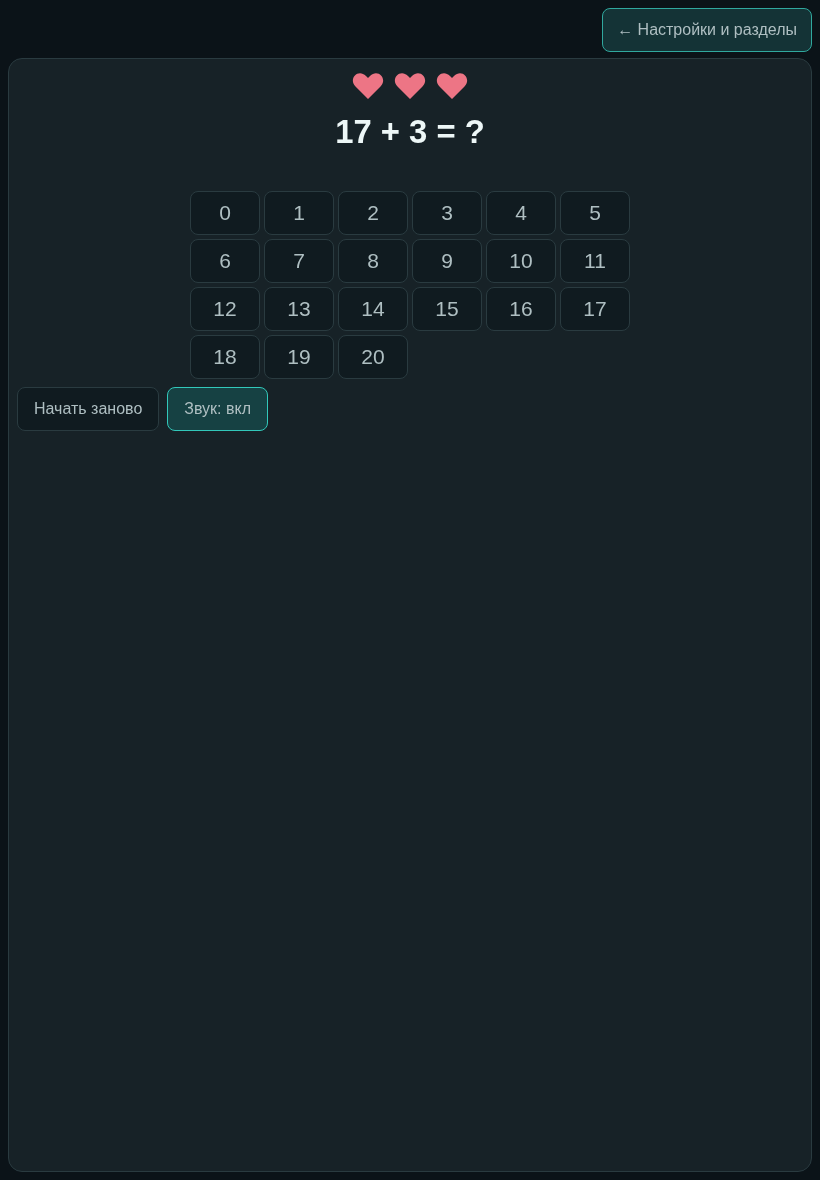
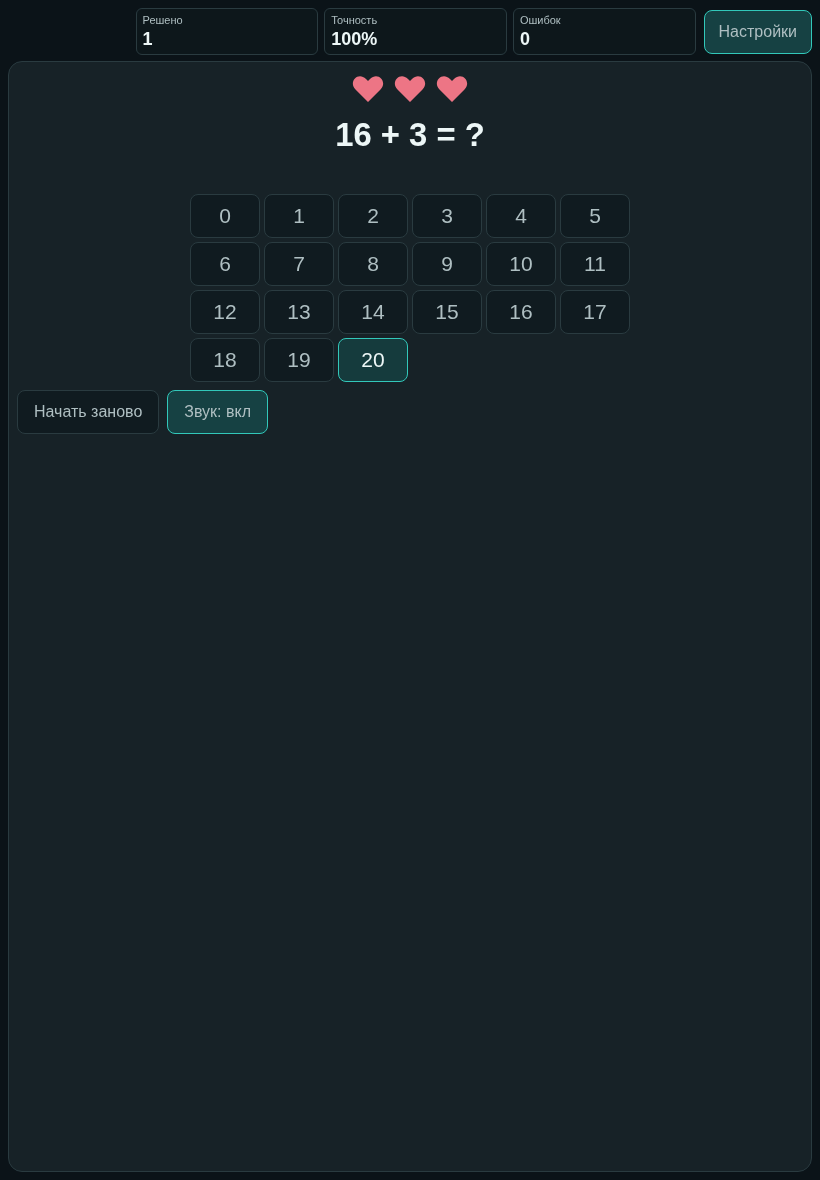
Keep live statistics visible alongside focused exercise controls

diff --git a/src/core/practice-view.ts b/src/core/practice-view.ts
@@ -21,6 +21,16 @@ export function attachPracticeView(root:HTMLElement):()=>void {
   toggle.setAttribute('aria-pressed','false');
   const bar=el('div',{class:'practice-bar'},[toggle]);
   shell.insertBefore(bar,stage);
+  // Keep the stream's existing counters live; move the node, never clone data.
+  const liveStats=shell.querySelector<HTMLElement>(':scope > .ml-stats');
+  const statsAnchor=liveStats?document.createComment('practice-live-stats'):null;
+  if(liveStats&&statsAnchor)liveStats.before(statsAnchor);
+  const restoreStats=()=>{
+    if(liveStats&&statsAnchor?.parentNode){
+      statsAnchor.parentNode.insertBefore(liveStats,statsAnchor.nextSibling);
+      liveStats.classList.remove('practice-live-stats');
+    }
+  };
 
   function restoreAttributes(){
     for(const [name,value] of attributes){
@@ -37,7 +47,7 @@ export function attachPracticeView(root:HTMLElement):()=>void {
     root.style.top=`${viewport?.offsetTop??0}px`;
     const width=root.clientWidth;
     const wide=width>=700||width>height*1.25;
-    const reserve=wide?(stage.querySelector('.exercise-seg')?140:100):245;
+    const reserve=wide?(stage.querySelector('.exercise-seg')?140:100):(stage.querySelector('.side .metrics')?336:245);
     const boardSize=Math.max(160,Math.floor(Math.min(wide?width*.57-24:width-24,height-reserve)));
     root.style.setProperty('--practice-board',`${boardSize}px`);
     // Board reads this size using its normal fitting and coordinate machinery.
@@ -51,7 +61,9 @@ export function attachPracticeView(root:HTMLElement):()=>void {
       root.setAttribute('aria-label','Игровой экран');
       root.setAttribute('aria-modal','true');
     }else restoreAttributes();
-    toggle.textContent=value?'← Настройки и разделы':'Играть на одном экране';
+    toggle.textContent=value?(liveStats?'Настройки':'← Настройки и разделы'):'Играть на одном экране';
+    toggle.setAttribute('aria-label',value?'← Настройки и разделы':'Играть на одном экране');
+    if(value&&liveStats){liveStats.classList.add('practice-live-stats');bar.prepend(liveStats);}else restoreStats();
     toggle.setAttribute('aria-pressed',String(value));
     document.body.style.overflow=value?'hidden':previousOverflow;
     document.documentElement.style.overflow=value?'hidden':htmlOverflow;
@@ -96,6 +108,7 @@ export function attachPracticeView(root:HTMLElement):()=>void {
     root.style.removeProperty('--practice-board');
     document.body.style.overflow=previousOverflow;
     document.documentElement.style.overflow=htmlOverflow;restoreViewport();
+    restoreStats();statsAnchor?.remove();
     bar.remove();
     shell.classList.remove('practice-shell');
     stage.classList.remove('practice-stage');

diff --git a/tests/practice-view.test.ts b/tests/practice-view.test.ts
@@ -17,3 +17,12 @@ it('does not hijack Escape already used to cancel a premove',()=>{
 it('ignores settings previews and auto-opens an already active stream',()=>{
  const settings=document.createElement('main');settings.innerHTML='<div class="settings-page"><section class="panel"><div class="board-area"></div></section></div>';const stop=attachPracticeView(settings);expect(settings.querySelector('.practice-bar')).toBeNull();stop();const flow=document.createElement('main');flow.innerHTML='<div class="mathlab"><section class="ml-flow-stage"></section></div>';document.body.append(flow);const dispose=attachPracticeView(flow);try{expect(flow.classList.contains('practice-focused')).toBe(true);}finally{dispose();flow.remove();}
 });
+it('keeps the stream statistics live in the toolbar and restores the same node outside play',()=>{
+ const root=document.createElement('main');root.innerHTML='<div class="mathlab"><section class="ml-flow-stage"></section><div class="ml-stats"><strong>1</strong></div><p>Notice</p></div>';document.body.append(root);const stats=root.querySelector<HTMLElement>('.ml-stats')!;const dispose=attachPracticeView(root);
+ try{
+  expect(root.querySelector('.practice-bar .ml-stats')).toBe(stats);stats.querySelector('strong')!.textContent='2';
+  root.querySelector<HTMLButtonElement>('.practice-bar button')!.click();expect(stats.parentElement).toBe(root.querySelector('.mathlab'));expect(stats.textContent).toBe('2');
+  root.querySelector<HTMLButtonElement>('.practice-bar button')!.click();expect(root.querySelector('.practice-bar .ml-stats')).toBe(stats);
+  dispose();expect(stats.isConnected).toBe(true);expect(stats.classList.contains('practice-live-stats')).toBe(false);
+ }finally{dispose();root.remove();}
+});

diff --git a/src/styles.css b/src/styles.css
@@ -2477,7 +2477,12 @@ code {
  .practice-focused .sn-area>.prompt,.practice-focused .sn-area>.ks-counter,.practice-focused .sn-exposure-progress,.practice-focused .sn-panel,.practice-focused .sn-feedback-key,.practice-focused .sn-area>.row{grid-column:2}
  .practice-focused .sn-panel{flex-direction:row;flex-wrap:wrap}
 }
-.practice-focused .side .metrics{display:none}
+.practice-focused .side .metrics{display:grid;grid-template-columns:repeat(3,minmax(0,1fr));gap:6px}
+.practice-focused .side .metric{display:flex;flex-direction:column;align-items:flex-start;gap:3px;min-width:0;padding:7px 8px;box-shadow:none}
+.practice-focused .side .metric-k{font-size:12px;line-height:1.25;letter-spacing:.02em;opacity:1}
+.practice-focused .side .metric-v{font-size:22px;line-height:1.15}
+@media(max-width:699px) and (orientation:portrait){.practice-focused .side .metric{padding:6px}.practice-focused .side .metric-k{font-size:11px}.practice-focused .side .metric-v{font-size:18px}}
 .practice-focused .practice-stage .btn{min-height:44px}
 @media(max-height:500px) and (orientation:landscape){.practice-focused .ks-area:not(.sn-area) .ks-grid{max-width:min(100%,calc(max(100px,100dvh - 236px)*4 + 36px))}}
 @media(min-width:700px),(orientation:landscape){.practice-focused .board-area,.practice-focused .board-area:has(.exercise-seg){grid-template-columns:minmax(0,max-content) minmax(0,1fr)}}
+.practice-focused .side .prompt{margin:4px 0}

diff --git a/src/modules/mathlab/styles.css b/src/modules/mathlab/styles.css
@@ -210,3 +210,9 @@
 .practice-focused .mathlab[data-exercise=material]:has(.ml-feedback .ml-actions) .ml-material-pieces{min-height:36px}
 .practice-focused .mathlab[data-exercise=material]:has(.ml-feedback .ml-actions) .ml-material-piece img{width:32px}
 .practice-focused .mathlab[data-exercise=material]:has(.ml-feedback .ml-actions) .ml-material-comparison{margin:6px 0}
+.practice-focused .mathlab .practice-bar{align-items:center;gap:8px}
+.practice-focused .mathlab .practice-live-stats{display:grid;grid-template-columns:repeat(3,minmax(0,1fr));flex:1;gap:6px;max-width:560px}
+.practice-focused .mathlab .practice-live-stats .ml-stat{padding:4px 6px;gap:1px;border-radius:6px;min-width:0}
+.practice-focused .mathlab .practice-live-stats .ml-stat span{font-size:11px;line-height:14px}
+.practice-focused .mathlab .practice-live-stats .ml-stat strong{font-size:18px;line-height:22px}
+.practice-focused .mathlab .practice-bar>.btn{flex-shrink:0}

diff --git a/docs/practice/README.md b/docs/practice/README.md
@@ -2,7 +2,7 @@
 
 Рабочая область открывается автоматически при входе в упражнение, ещё до «Старт»/«Начать». Её размеры и положение привязаны ко всей видимой области visualViewport, включая изменения браузерных панелей на планшете. «Поток сложения», уже активные упражнения дневного плана и возобновлённые занятия также поддерживаются. До начала можно нажать «Играть на одном экране». Кнопка «← Настройки и разделы» возвращает обычную страницу, не пересоздавая упражнение. Escape возвращает страницу, кроме случаев, когда упражнение использует его для отмены премувов.
 
-Задание и основные действия находятся вместе. Настройки и подробные показатели остаются на обычной странице. Для реальной шахматной доски используется штатное вычисление размера, включая координаты, а не CSS-масштабирование. Цвет клеток, фигуры, таймеры и алгоритмы заданий не менялись. Смена размера Snapshot обрабатывается существующим механизмом повторного показа без штрафа.
+Задание и основные действия находятся вместе. Скорость, точность и общее время видны компактным блоком рядом с доской (на узком экране — под ней). Настройки и развёрнутая статистика остаются на обычной странице. В «Потоке сложения» действующие счётчики перемещаются в верхнюю панель; используются те же DOM-узлы и данные, без копирования или второго расчёта. Для реальной шахматной доски используется штатное вычисление размера, включая координаты, а не CSS-масштабирование. Цвет клеток, фигуры, таймеры и алгоритмы заданий не менялись. Смена размера Snapshot обрабатывается существующим механизмом повторного показа без штрафа.
 
 MathLab:
 - Компактные блоки задания, числовые кнопки и подтверждение; на широком экране — соседние колонки.
@@ -16,7 +16,7 @@ Snapshot: доска, панель исчезнувших фигур и «Гот
 
 Проверки:
 - `node e2e/practice-layout.mjs`: MathLab, реальные размеры задания/ответов/подтверждения/следующего задания и отсутствие прокрутки; 320×568, 390×844, 820×1180, 844×390, 1440×900.
-- `node e2e/practice-chess.mjs`: Snapshot уровня 5, «Готово»/«Дальше», четыре доски скана конём, «Сигнал» и премувы; первые четыре размера.
+- `node e2e/practice-chess.mjs`: Snapshot уровня 5, «Готово»/«Дальше», четыре доски скана конём, «Сигнал» и премувы; 320×568, 390×844, 820×1180, 844×390, 1024×768 и 1366×768. Проверяются видимость статистики, её обновление после настоящего решения и доступность основных кнопок без прокрутки.
 - `npm run test:math`: полный MathLab, маршрутизация, настройки, сохранение, возврат к шахматам.
 - `CHROMIUM_EXECUTABLE_PATH=/usr/bin/chromium node e2e/touch.mjs`: прежние жесты доски и премувы обеими сторонами.
 - `node e2e/addition-sound.mjs`, `node e2e/signal-scoring.mjs`: звук и классификация сигнала.
